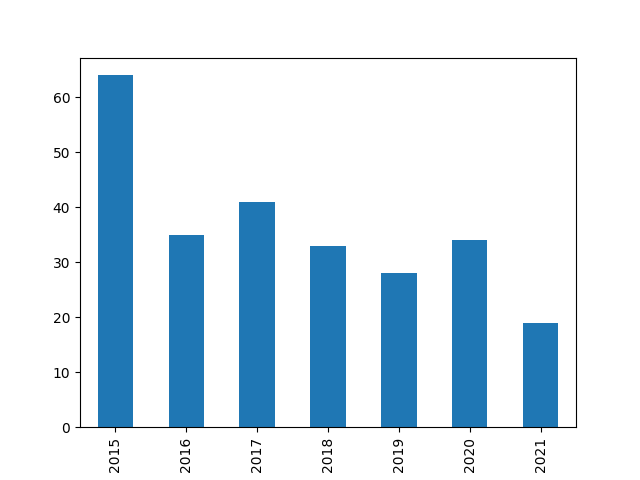
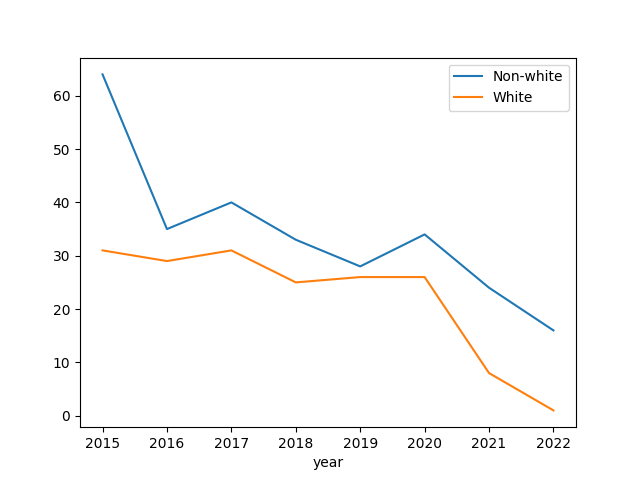
--

diff --git a/en/2019/05/confstats.md b/en/2019/05/confstats.md
@@ -112,7 +112,7 @@ worldwide deployments, by all countries.
 
 <a name='unarmed'/>
 
-### Unarmed Non-Whites Shot By Police
+### Unarmed People Shot By the Police
 
 Data is from WaPo Github [repo](https://github.com/washingtonpost/data-police-shootings).
 
@@ -120,9 +120,12 @@ Data is from WaPo Github [repo](https://github.com/washingtonpost/data-police-sh
 import pandas as pd
 f = 'https://raw.githubusercontent.com/washingtonpost/data-police-shootings/master/fatal-police-shootings-data.csv'
 df = pd.read_csv(f)
-df = df[(df.race != 'W') & (df.armed == 'unarmed')]
 df['year'] = pd.to_datetime(df['date']).dt.year
-df.groupby('year').size().plot(kind='bar')
+df1 = df[(df.race != 'W') & (df.armed == 'unarmed')]
+df1.groupby('year').size().plot()
+df2 = df[(df.race == 'W') & (df.armed == 'unarmed')]
+df2.groupby('year').size().plot()
+plt.legend(['Non-white','White'])
 plt.savefig('unarmed.png')
 ```
 
